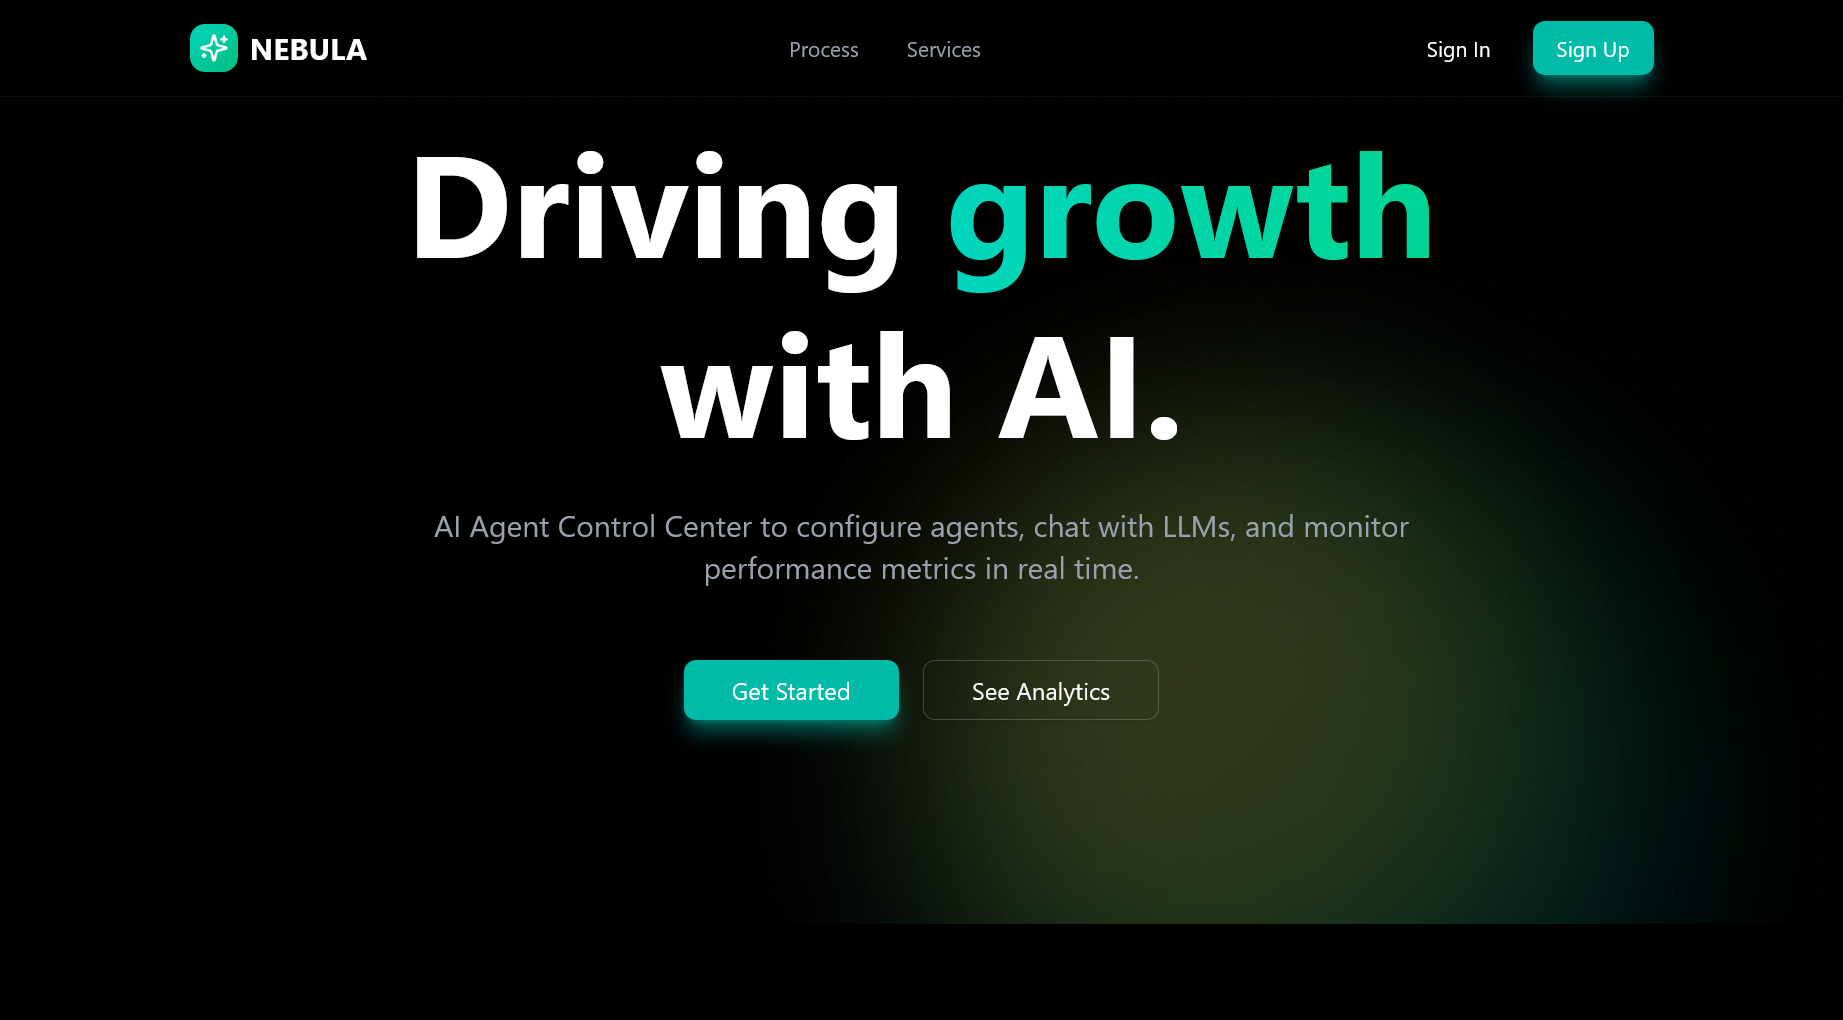
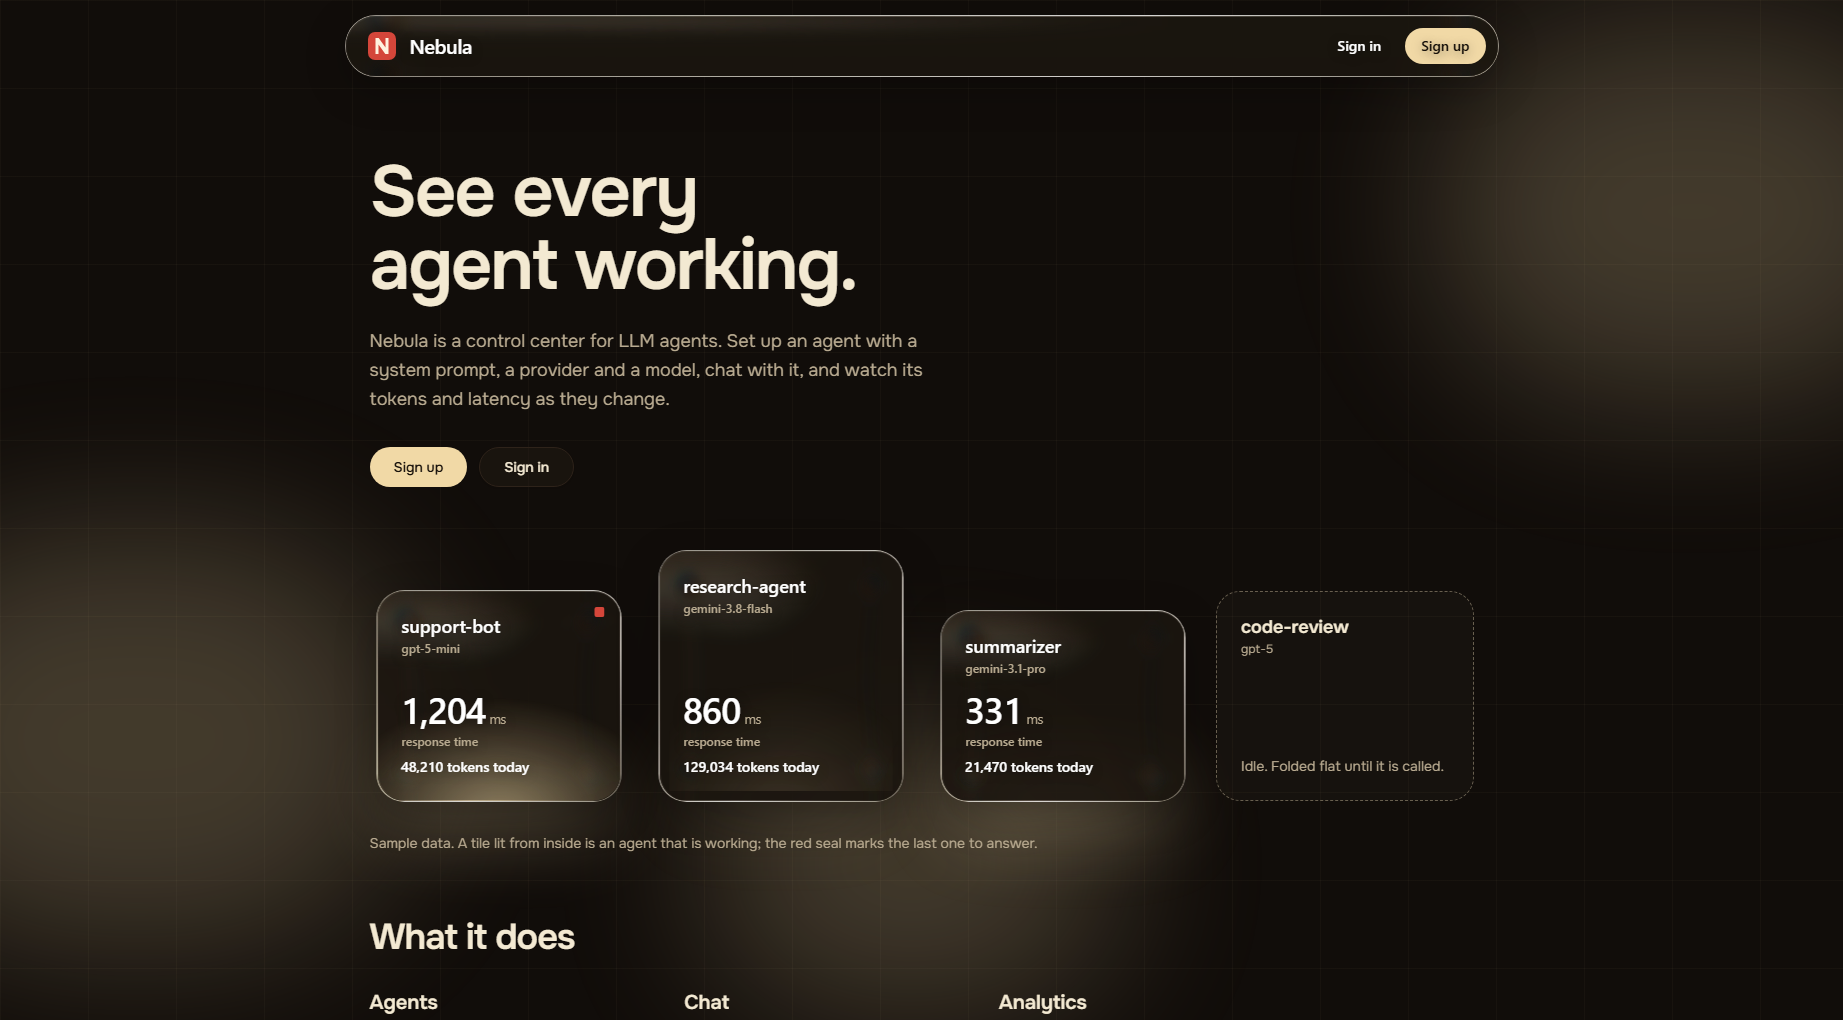
Update Nebula and NotionCraft links and screenshots

diff --git a/src/components/pages/projects.tsx b/src/components/pages/projects.tsx
@@ -97,7 +97,7 @@ export default function Projects({ windowWidth }: { windowWidth?: number }) {
       description: "Nebula is a modern AI Agent Platform designed for creating, managing, and interacting with specialized AI agents.",
       image: nebula,
       tags: ["React", "Node js", "Postgres"],
-      demoUrl: "https://nebula-gamma-inky.vercel.app/",
+      demoUrl: "https://nebula-ai0.vercel.app/",
       githubUrl: "https://github.com/Haruru0-0/Nebula",
     },
     {
@@ -106,7 +106,7 @@ export default function Projects({ windowWidth }: { windowWidth?: number }) {
       description: "NotionCraft AI: A Next.js web app mimicking Notion's rich text editor with AI-powered chat and writing features.",
       image: notionCraft,
       tags: ["Next.js", "Supabase", "Vercel ai sdk"],
-      demoUrl: "https://notioncraft-ai.vercel.app/",
+      demoUrl: "https://notioncraft-ai-silk.vercel.app/",
       githubUrl: "https://github.com/Haruru0-0/notioncraft-ai",
     },
     {

diff --git a/docs/memory/gotchas.md b/docs/memory/gotchas.md
@@ -8,3 +8,4 @@ See [[architecture]].
 - **The routes file `routeTree.gen.ts` is generated** by TanStack Router.
 - **`node_modules` is not installed in this checkout,** so the site has not been built or looked at since the 2026-11-02 changes.
 - **`graphify.exe` is blocked on this machine;** use `python -m graphify update .`.
+- **Project links and screenshots live in `src/components/pages/projects.tsx` and `src/assets/*.png`** (1843x1020 each). On 2026-11-05 Nebula's demo became `https://nebula-ai0.vercel.app/` and NotionCraft's `https://notioncraft-ai-silk.vercel.app/` (the older addresses came from accounts the author lost), and both screenshots were retaken from the live landing pages with headless Chromium (`--window-size=1843,1020 --virtual-time-budget=10000`). `vite build` rewrites the generated `src/routeTree.gen.ts`; revert it before committing. There are no tests, and `yarn install` needed about five minutes on a slow network.
